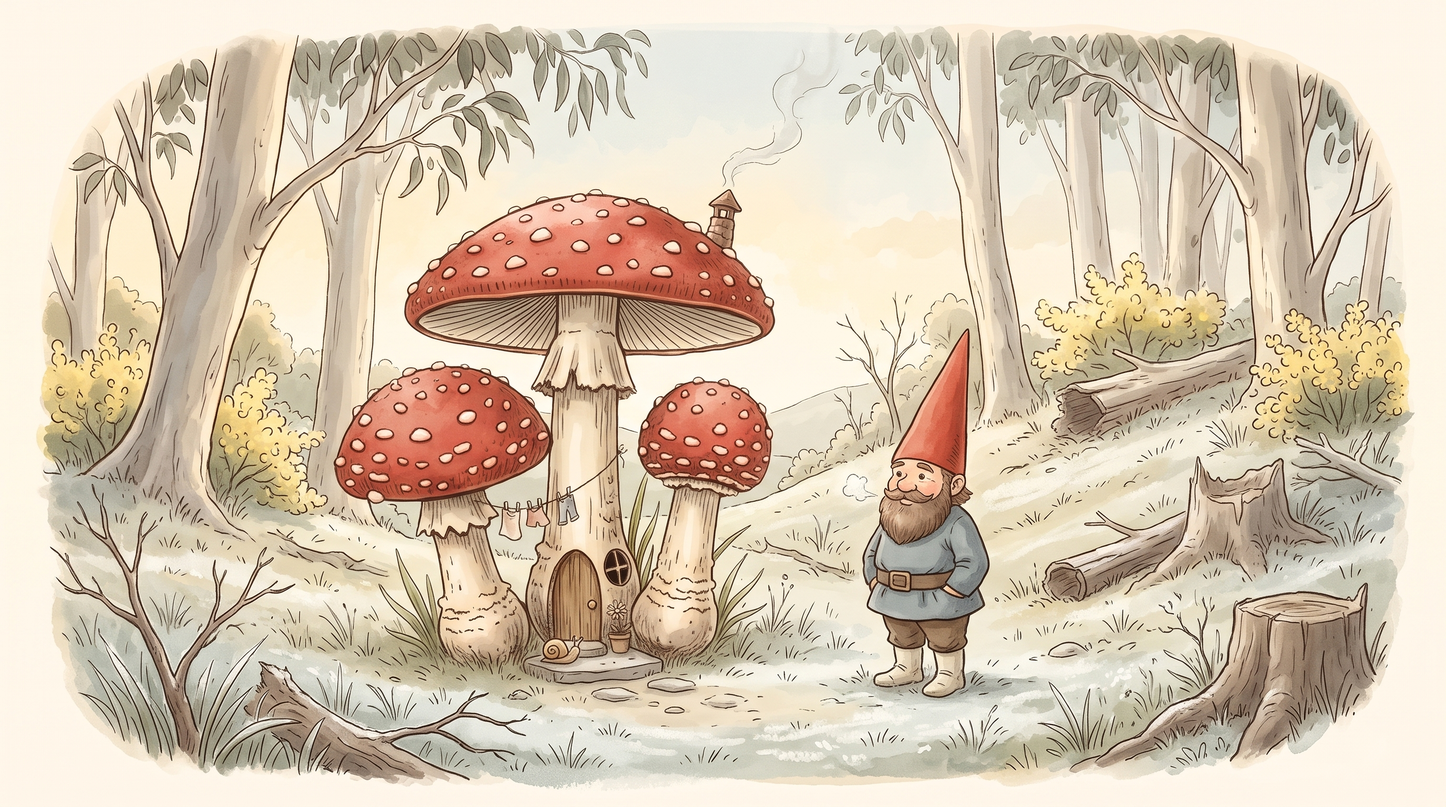
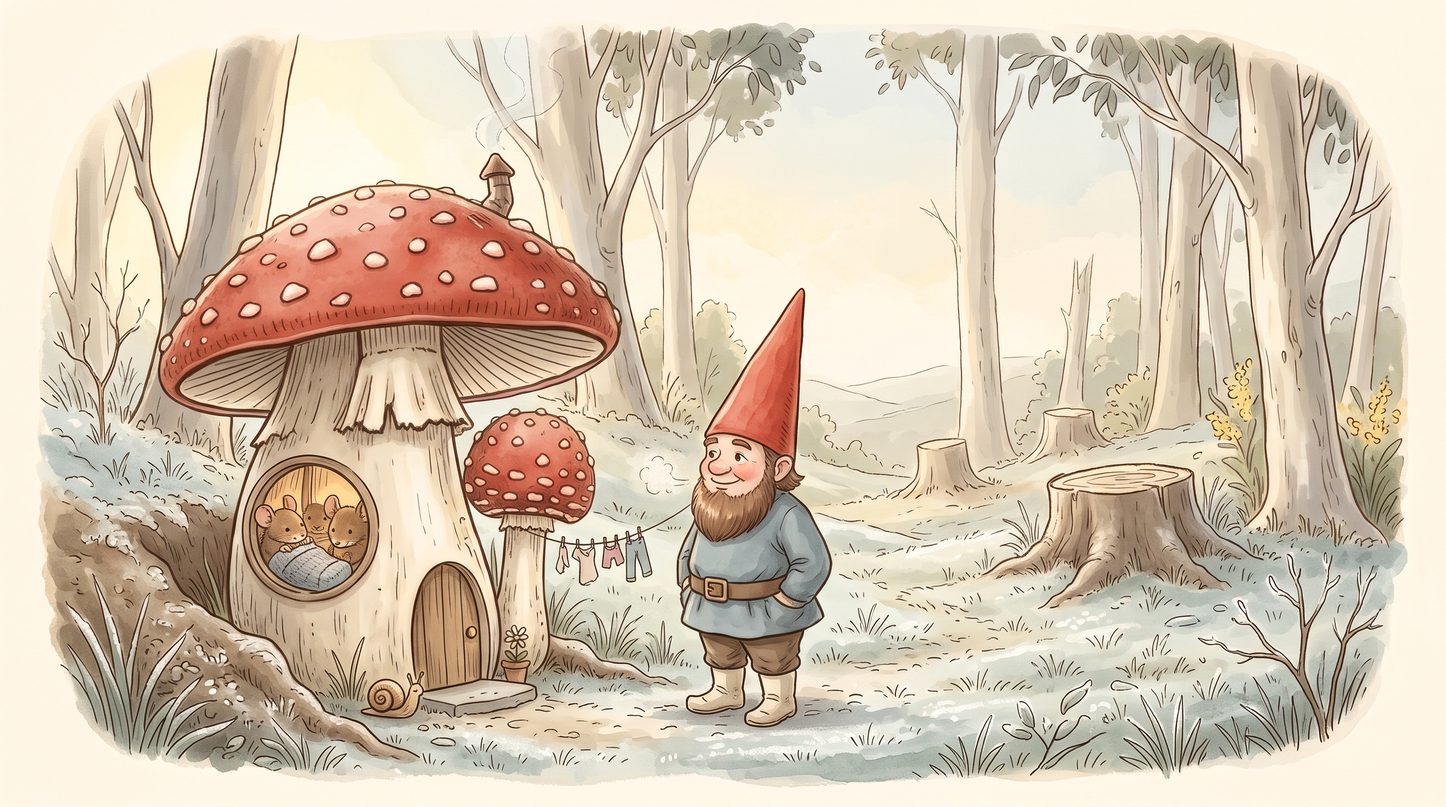
Art day 15: animals batch and first farm sheets (43 of 49)

diff --git a/art-day-15/RESULTS.md b/art-day-15/RESULTS.md
@@ -14,3 +14,23 @@ a02-rabbit-babies: good first try; dandelion seed on the 4th baby's ear, snail b
 a03-page-rabbitBabies: good first try; stump house, gnomes, mother and four babies at the fence (the babies sit just outside it), dandelion seed on the smallest, snail on a fence post.
 a04-mouse-bits: usable but loose: the sock hammock with the baby mouse and the PLEASE DO NOT KNOCK sign are great; the mouse door is a little plank door in a woven wattle fence (not our stick fence, not a bark flap); the chimney toadstool came out as a cluster of three toadstools with a washing line, so it will not overlay the existing toad-house exactly (the chimney could be cut off it). Snail on the cap.
 a05-page-mouseWinter: try 1 (in tries) was lovely but the window was a tiny dark circle with no mice or sock; retry sent with a closer view. (Gemini limit hit at 22:58 after 22 pictures.)
+a05-page-mouseWinter: try 2 kept: a closer view, three mice in the round window, the littlest in a blue-grey sock, Wendel smiling, snail on the doorstep.
+a06-owl-box: good first try; the box with the sleeping owl is drawn a bit bigger than the others. Snail on the first post.
+a07-frogmouth-branch: good bird, eyes slit, bill up, snail on the bough; but it came out tall and the bough runs off the left and bottom edges (fine if it is tucked into the oak's branches).
+a08-page-owlHoo: lovely first try; night washes, nothing glowing, Wendel dozing on the bench, Hazel with the blanket, owl on its box by a gum (not an oak), snail on the bench.
+a09-hog-coat-sign: the bottom row is good (leaf-coat hedgehog, leaf shelter with an ASLEEP sign + leaf + snail, thin sleepy hedgehog) but Gemini added cut-off ghost copies of all three along the top with a pink smear: crop to the bottom ~65% before cutting. A few leaves are reddish.
+a10-page-hogShopping: good first try; autumn dusk, leaf-coat hedgehog heading for the leaf pile, Hazel laughing behind her hand, Wendel gently stricken, snail on a leaf.
+a11-page-hogSpring: good first try; Hazel tipping berries into the dish on its stump, hedgehog eating, Wendel holding the ASLEEP sign; the snail is small on the dish stump.
+a12-gift-icons: all 8 gifts, snail on the pebble; no cream paper-cut edge this time (unlike the pasted icons), so the cutter may want to add an outline.
+a13-lyrebird: came out tall (portrait); perched bird on a mossy log with a snail, and the dancing bird shown from behind with its lyre tail fanned up, one foot lifted. The perched bird's tail tip touches the bottom edge.
+a14-portrait-lyrebird: good first try, square card, tree ferns and gums, snail on a fern.
+a15-page-lyreDance: good first try; lyrebird dancing on its scratched mound with the tail fanned over, Hazel clapping and laughing, Wendel amazed with his hammer, snail on a stump.
+a16-portrait-robin: good first try; same robin as the old card, two chicks gaping, red thread curl woven in the nest, snail on the branch. Backdrop is a leafy spring branch, not the old card's bare clearing.
+a17-portrait-wren: good first try; the pair on a twig in the old card's bare clearing, snail on the twig. The male's blue leans slightly violet.
+a18-portrait-frog: good first try; big frog singing with throat puffed, smaller one answering, raindrops, two snails on the reeds.
+a19-portrait-platypus: good first try; misty dawn creek, ripple rings, snail on a reed.
+f01-farm-herbs: good first try; herb clump (thyme + sage) in 4 stages with cream flowers, rhubarb in 4 stages, snail on the biggest leaf.
+f02-farm-willow: good first try; 4 stages + cut stool with bundle, snail on the bundle. The cut stool and bundle sit close together (cut as one piece).
+f03-farm-veg: good first try; cabbage x3, peas small/full, strawberry small/fruiting, radishes, and TWO near-identical gnome scarecrows (pick either; snails small on the arms).
+f04-farm-orchard: good first try; whip on stake, leafy, blossom, apples, ladder with a snail. Pinker background.
+(Second 5-hour window filled after 22 more pictures, around 08:07; reset 8:49.)
